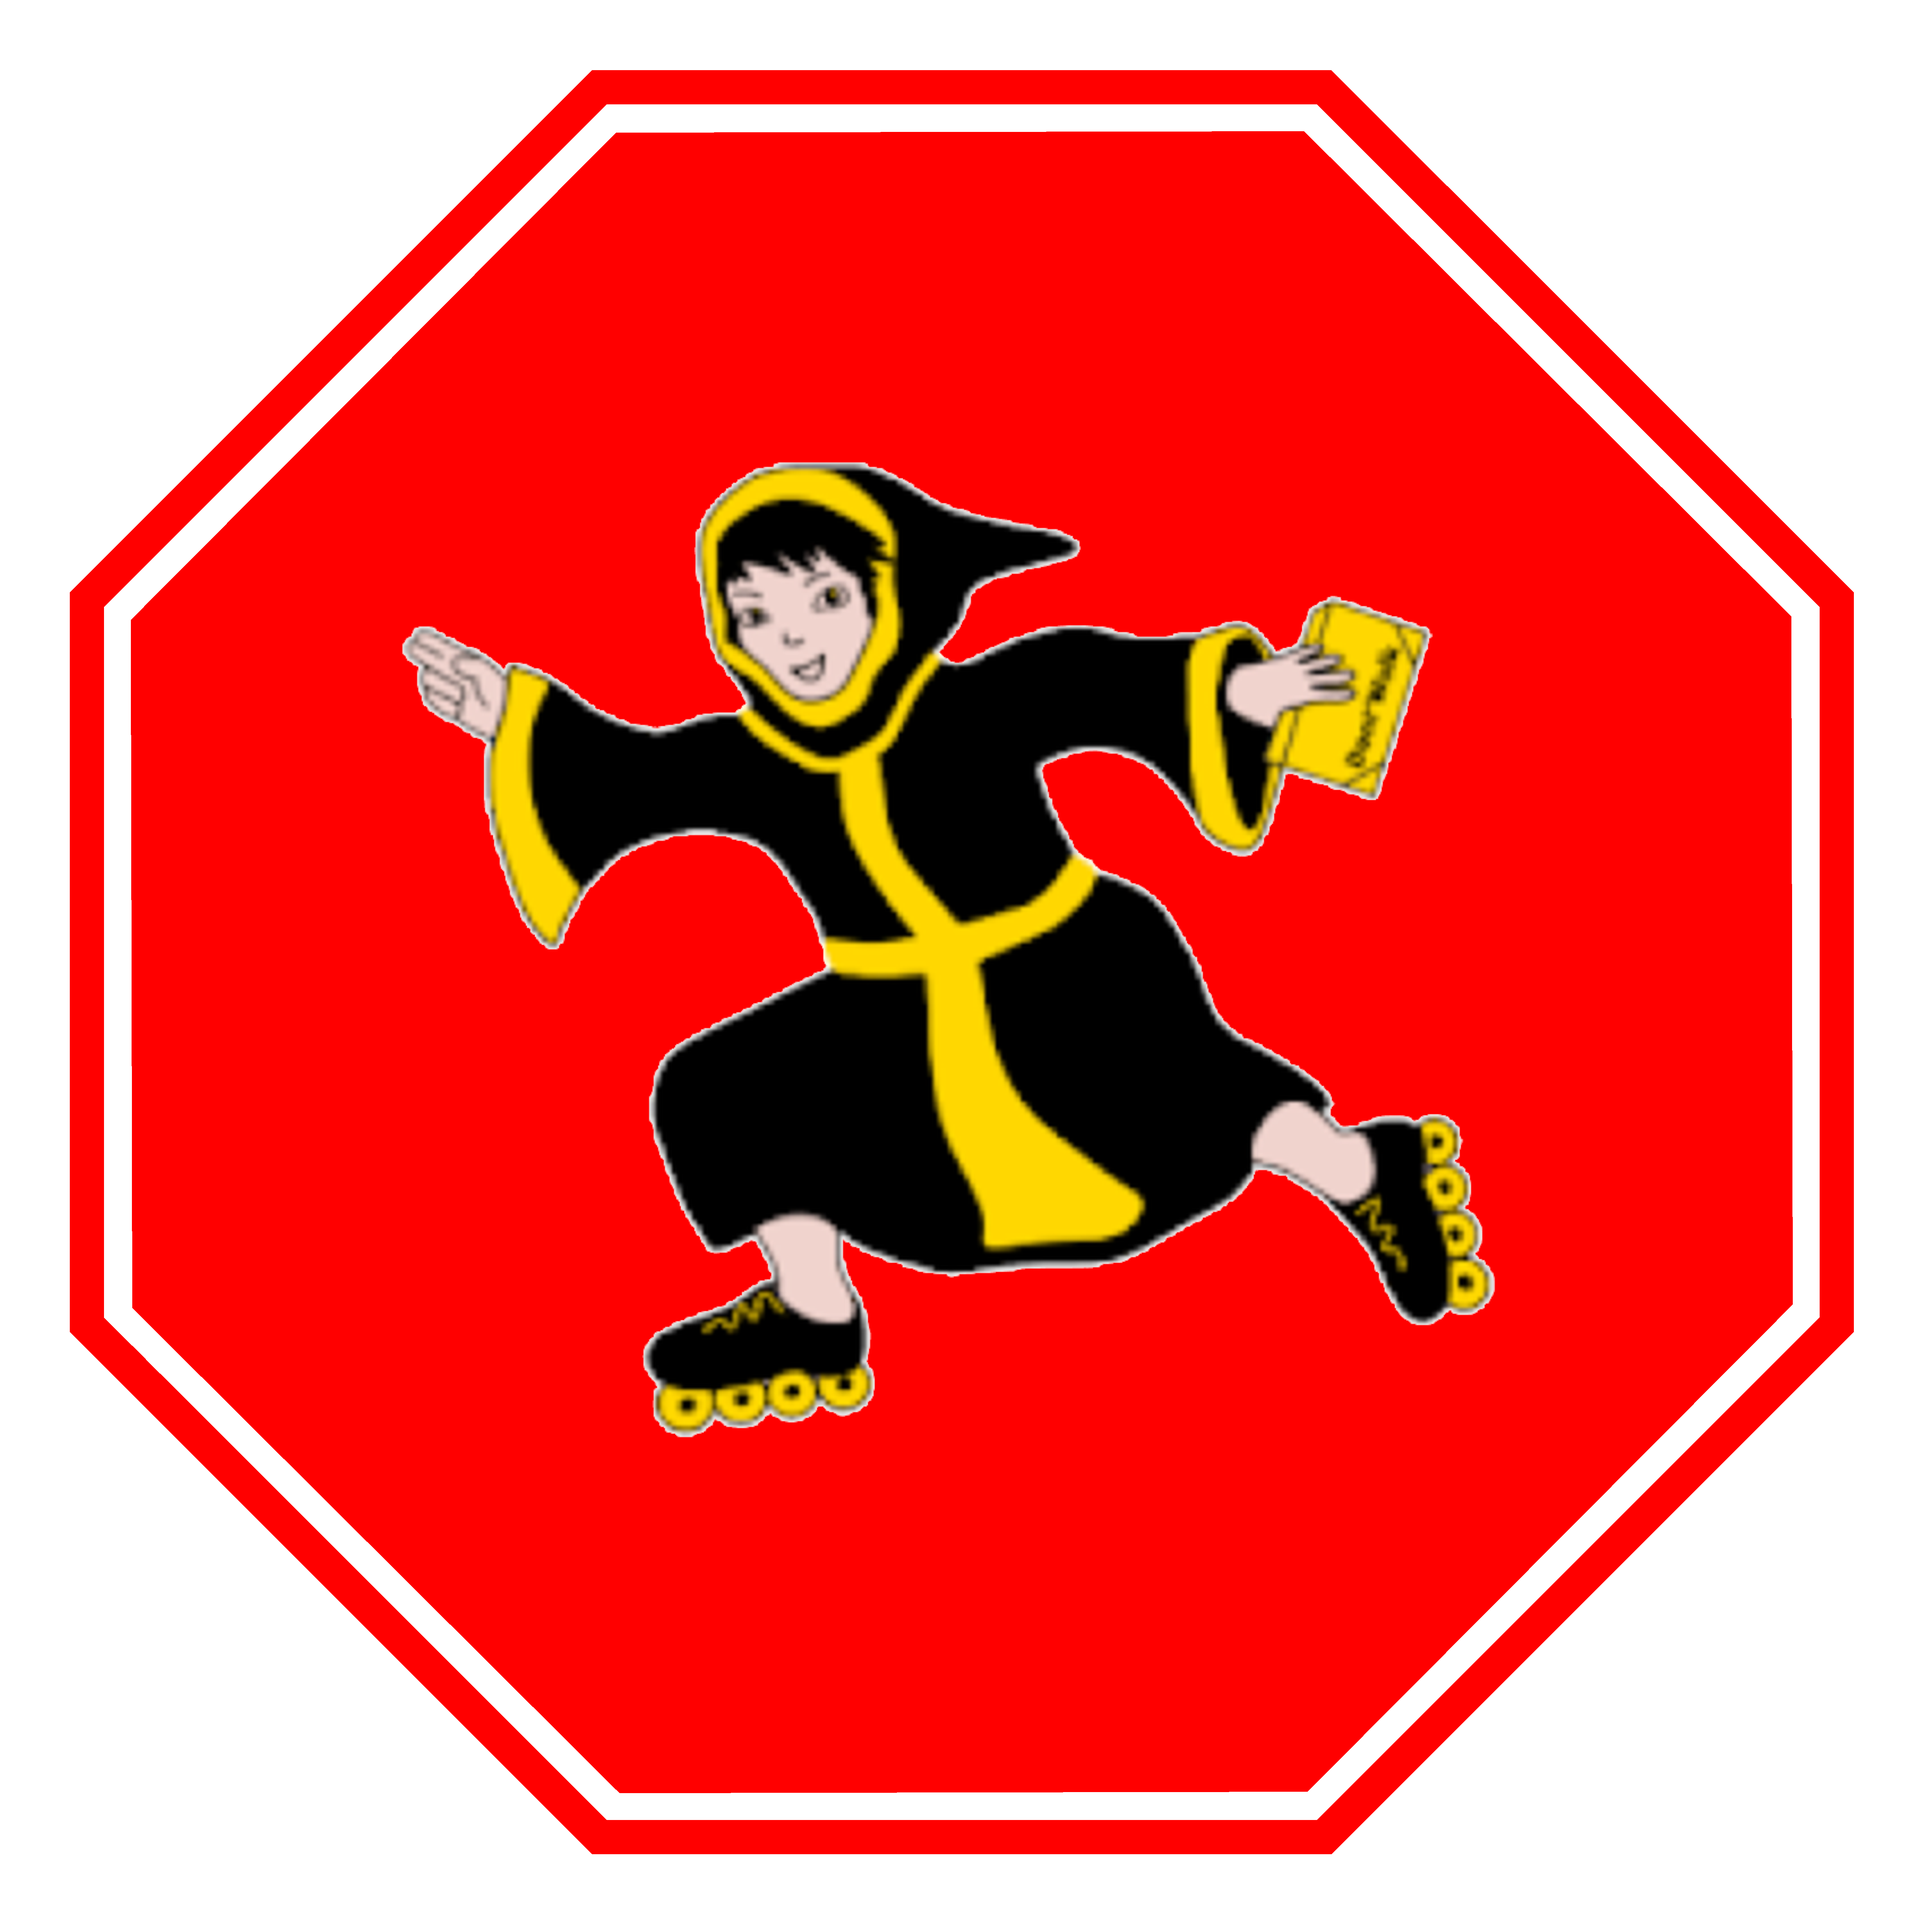
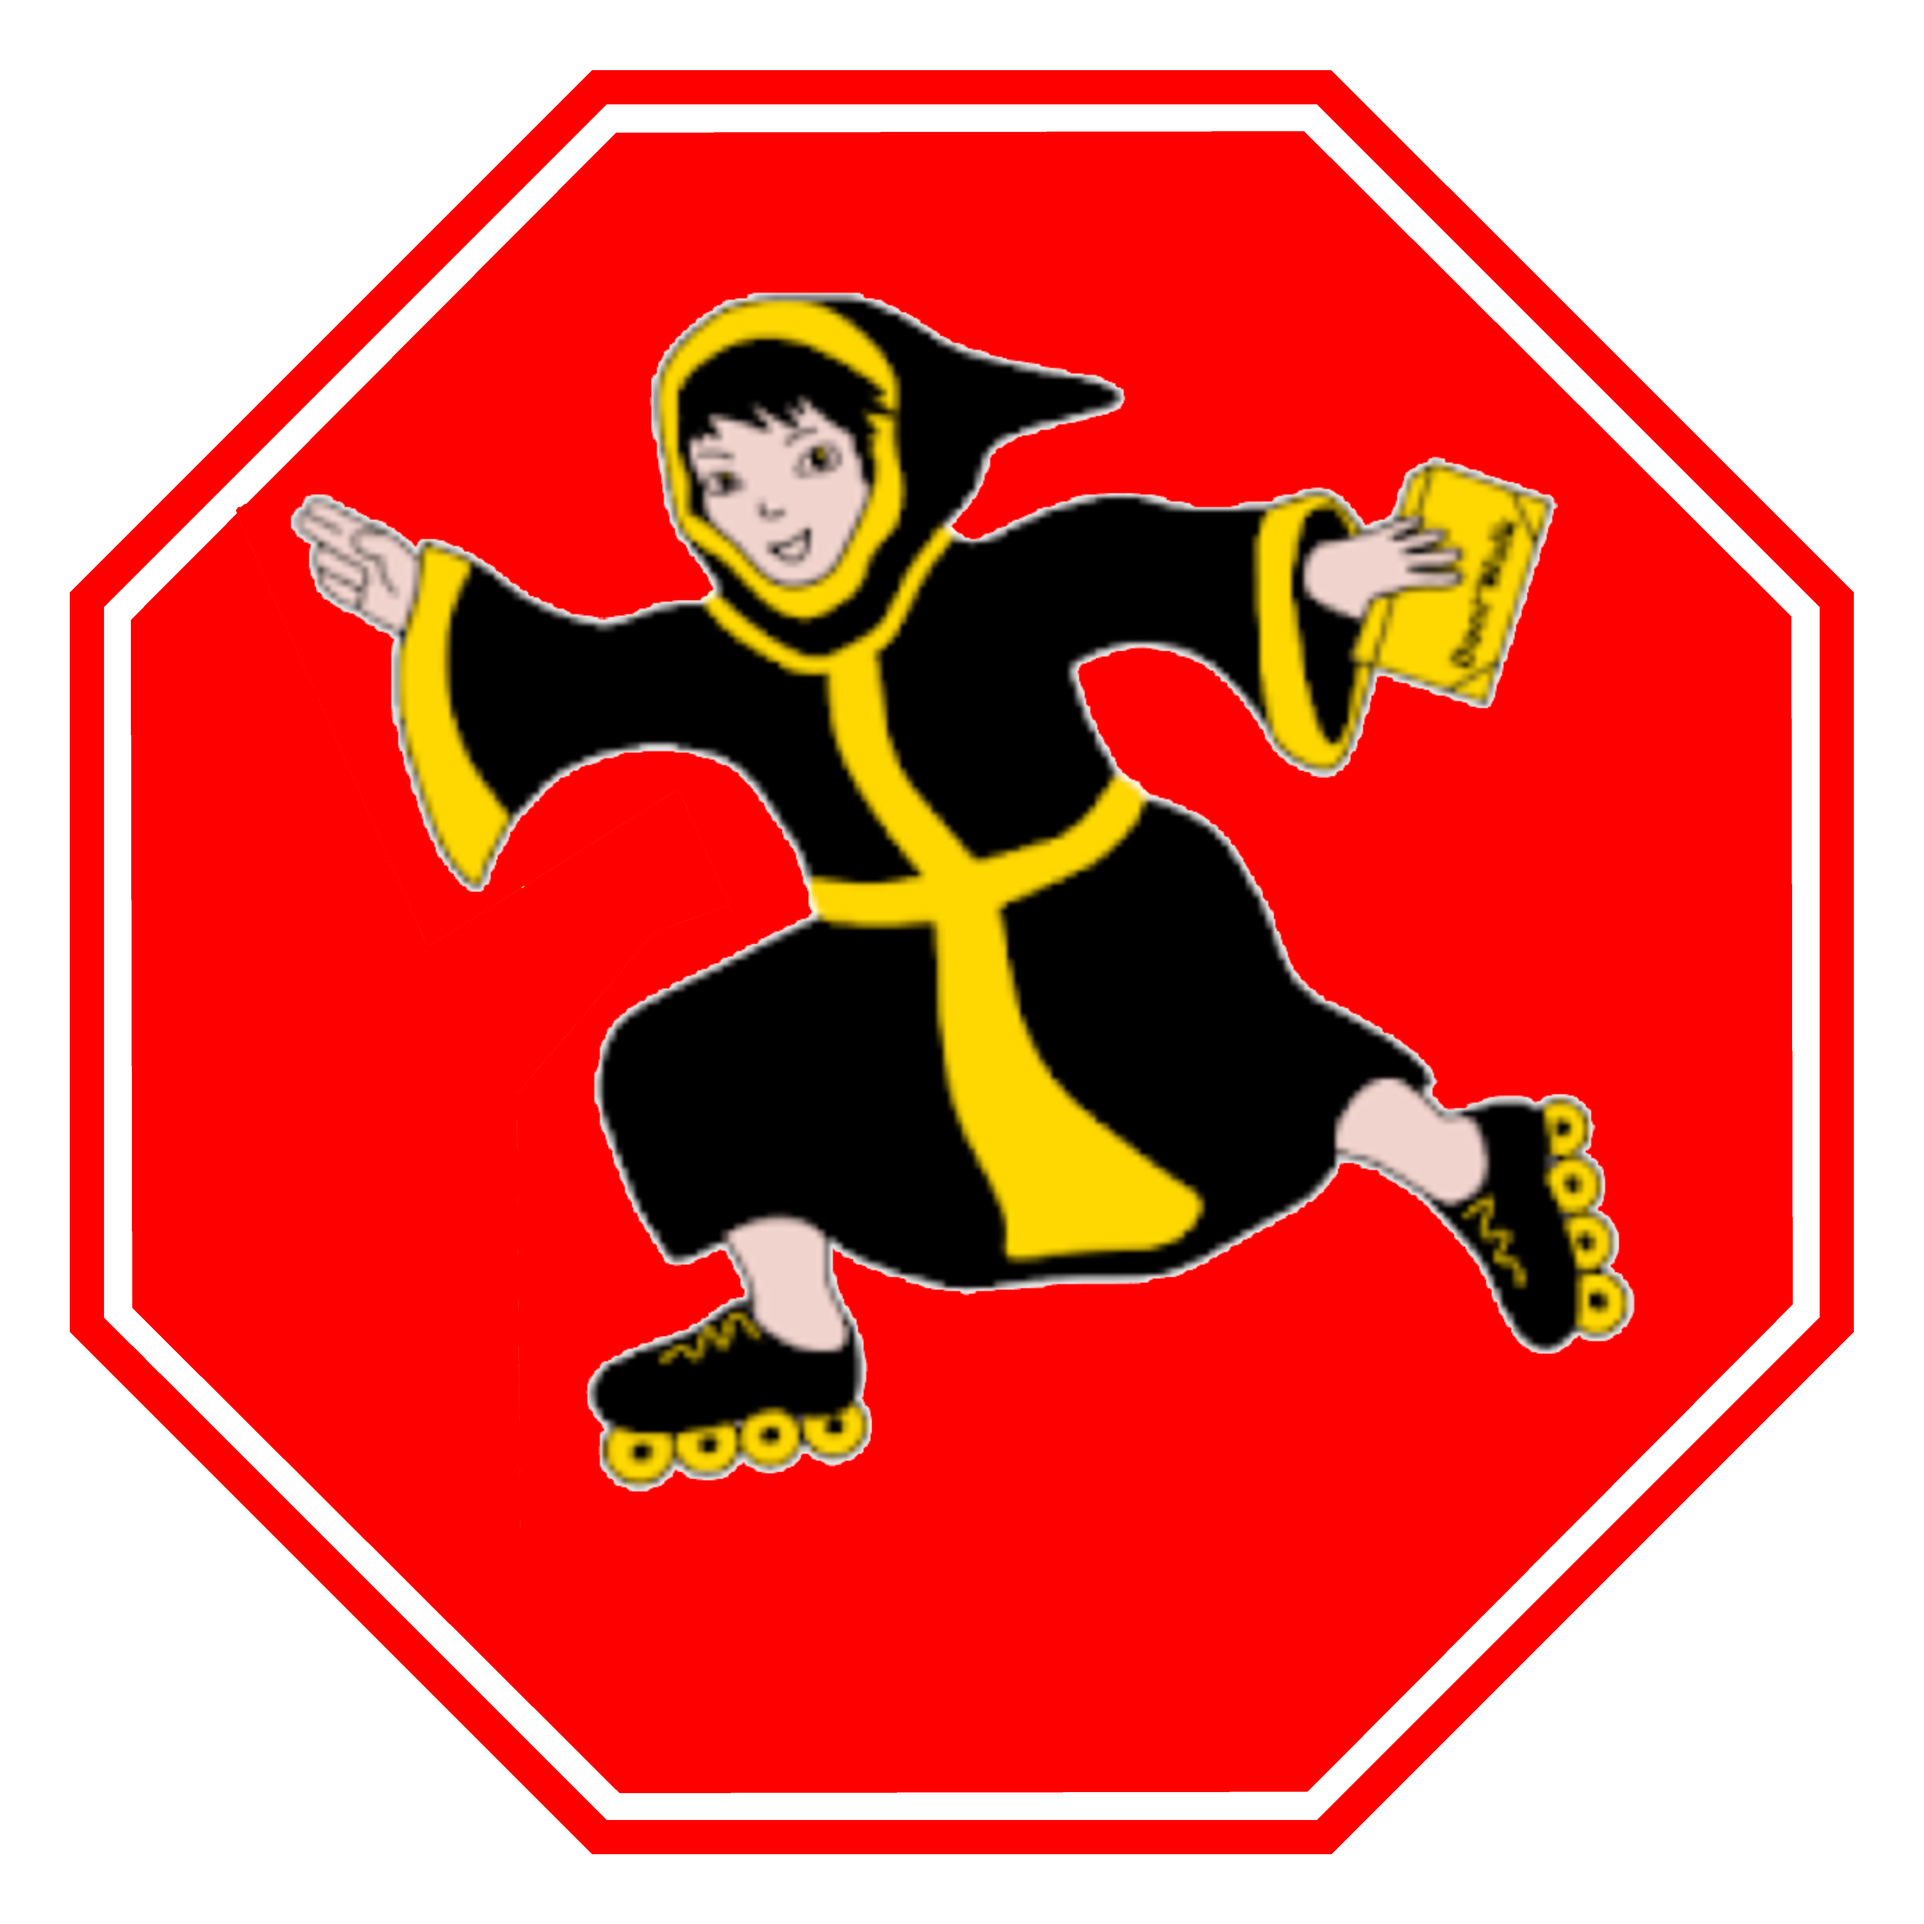
- Added -Sammelstopp- changing by serverconfig - fixed email_widget.dart - removed white background from child_stop image - moved special_point.dart outside with provider

Changed region(s): [[0.156, 0.1248, 0.8736, 0.78]]

diff --git a/lib/pages/map/widgets/special_points_layer.dart b/lib/pages/map/widgets/special_points_layer.dart
@@ -1,11 +1,13 @@
+import 'package:cached_network_image/cached_network_image.dart';
 import 'package:flutter/material.dart';
 import 'package:flutter_map/flutter_map.dart';
 import 'package:flutter_map_marker_popup/flutter_map_marker_popup.dart';
 import 'package:flutter_riverpod/flutter_riverpod.dart';
 
+import '../../../app_settings/app_configuration_helper.dart';
 import '../../../generated/l10n.dart';
-import '../../../helpers/location_bearing_distance.dart';
 import '../../../models/bn_map_marker.dart';
+import '../../../models/special_point.dart';
 import '../../../providers/active_event_route_provider.dart';
 import '../../../providers/map/icon_size_provider.dart';
 import 'map_marker_popup.dart';
@@ -56,13 +58,17 @@ class _SpecialPointsLayerState extends ConsumerState<SpecialPointsLayer> {
                 buildContext: context,
                 headerText: Localize.of(context).collectionStop,
                 color: Colors.lightBlue,
-                point: sp.latLng,
+                point: sp.latLon,
                 width: iconSize * 0.9,
                 height: iconSize * 0.9,
                 child: Builder(
-                  builder: (context) => Image(
-                    image: AssetImage(
-                      sp.imageName,
+                  builder: (context) => CachedNetworkImage(
+                    imageUrl: sp.imageUrl,
+                    placeholder: (context, url) => Image.asset(
+                      specialPointImagePlaceHolder,
+                    ),
+                    errorWidget: (context, url, error) => Image.asset(
+                      specialPointImagePlaceHolder,
                     ),
                   ),
                 ),

diff --git a/lib/providers/active_event_route_provider.dart b/lib/providers/active_event_route_provider.dart
@@ -2,9 +2,12 @@ import 'package:riverpod_annotation/riverpod_annotation.dart';
 
 import '../helpers/hive_box/hive_settings_db.dart';
 import '../helpers/location_bearing_distance.dart';
+import '../helpers/logger.dart';
 import '../models/event.dart';
 import '../models/route.dart';
+import '../models/special_point.dart';
 import 'active_event_provider.dart';
+import 'images_and_links/special_points_image_and_link_provider.dart';
 import 'realtime_data_provider.dart';
 
 part 'active_event_route_provider.g.dart';
@@ -57,14 +60,15 @@ class SpecialPoints extends _$SpecialPoints {
   @override
   Future<List<SpecialPoint>> build() async {
     List<SpecialPoint> points = [];
-    points.add(SpecialPoint(const LatLng(48.15964, 11.52988),
-        'assets/images/skatemunich_child_stop.png'));
-    points.add(SpecialPoint(const LatLng(48.11015, 11.51962),
-        'assets/images/skatemunich_child_stop.png'));
-    points.add(SpecialPoint(const LatLng(48.12308, 11.56730),
-        'assets/images/skatemunich_child_stop.png'));
-    points.add(SpecialPoint(const LatLng(48.15726, 11.58417),
-        'assets/images/skatemunich_child_stop.png'));
+    var pointsJson = ref.read(specialPointsImageAndLinkProvider).text;
+    if (pointsJson != null) {
+      try {
+        var spPoints = SpecialPointsMapper.fromJson(pointsJson);
+        points = spPoints.specialPoints;
+      } catch (e) {
+        BnLog.error(text: 'SpecialPoints parse error $e', className: toString());
+      }
+    }
     return points;
   }
 }

diff --git a/lib/providers/images_and_links/special_points_image_and_link_provider.dart b/lib/providers/images_and_links/special_points_image_and_link_provider.dart
@@ -1,0 +1,37 @@
+import 'package:riverpod_annotation/riverpod_annotation.dart';
+
+import '../../helpers/hive_box/hive_settings_db.dart';
+import '../../models/image_and_link.dart';
+
+part 'special_points_image_and_link_provider.g.dart';
+
+String specialPointsImageAndLinkKey = 'specialPointsIalKey';
+ImageAndLink _defaultSpecialPoints = ImageAndLink(
+    '',
+    '',
+    '{"spp":['
+        '{"lat":48.098390,"lon":11.508354,"url":"https://bladenight.app/images/skatemunich_child_stop.png"},' //Süd Höglwörther
+        '{"lat":48.12308,"lon":11.56730,"url":"https://bladenight.app/images/skatemunich_child_stop.png"},' //Ost Wittelsbacher
+        '{"lat":48.15726,"lon":11.58417,"url":"https://bladenight.app/images/skatemunich_child_stop.png"}' //Nord Leopold
+        ']'
+        '}',
+    'specialPoints');
+
+
+@riverpod
+class SpecialPointsImageAndLink extends _$SpecialPointsImageAndLink {
+  @override
+  ImageAndLink build() {
+    HiveSettingsDB.settingsHiveBox
+        .watch(key: specialPointsImageAndLinkKey)
+        .listen((event) => state = event.value);
+    return HiveSettingsDB.settingsHiveBox
+        .get(specialPointsImageAndLinkKey, defaultValue: _defaultSpecialPoints);
+  }
+
+  void setValue(ImageAndLink imageAndLink) {
+    HiveSettingsDB.settingsHiveBox
+        .put(specialPointsImageAndLinkKey, imageAndLink);
+    //state = imageAndLink;
+  }
+}

diff --git a/lib/main.init.dart b/lib/main.init.dart
@@ -26,8 +26,9 @@ import 'models/route.dart' as p19;
 import 'models/route_names.dart' as p20;
 import 'models/shake_hand_result.dart' as p21;
 import 'models/shake_hands.dart' as p22;
-import 'models/user_trackpoint.dart' as p23;
-import 'models/watch_event.dart' as p24;
+import 'models/special_point.dart' as p23;
+import 'models/user_trackpoint.dart' as p24;
+import 'models/watch_event.dart' as p25;
 
 void initializeMappers() {
   p0.EventMapper.ensureInitialized();
@@ -57,8 +58,10 @@ void initializeMappers() {
   p20.RouteNamesMapper.ensureInitialized();
   p21.ShakeHandResultMapper.ensureInitialized();
   p22.ShakeHandMapper.ensureInitialized();
-  p23.UserTrackPointMapper.ensureInitialized();
-  p23.UserTrackPointsMapper.ensureInitialized();
-  p24.WatchEventMapper.ensureInitialized();
-  p24.WatchEventsMapper.ensureInitialized();
+  p23.SpecialPointMapper.ensureInitialized();
+  p23.SpecialPointsMapper.ensureInitialized();
+  p24.UserTrackPointMapper.ensureInitialized();
+  p24.UserTrackPointsMapper.ensureInitialized();
+  p25.WatchEventMapper.ensureInitialized();
+  p25.WatchEventsMapper.ensureInitialized();
 }

diff --git a/lib/providers/get_images_and_links_provider.dart b/lib/providers/get_images_and_links_provider.dart
@@ -12,6 +12,7 @@ import '../models/images_and_links.dart';
 import 'images_and_links/bladeguard_link_image_and_link_provider.dart';
 import 'images_and_links/main_sponsor_image_and_link_provider.dart';
 import 'images_and_links/second_sponsor_image_and_link_provider.dart';
+import 'images_and_links/special_points_image_and_link_provider.dart';
 import 'images_and_links/startpoint_image_and_link_provider.dart';
 import 'network_connection_provider.dart';
 
@@ -46,6 +47,9 @@ final updateImagesAndLinksProvider = FutureProvider<bool>((ref) async {
         break;
       case 'bladeguardLink':
         ref.read(bladeguardImageAndLinkProvider.notifier).setValue(ial);
+        break;
+      case 'specialPoints':
+        ref.read(specialPointsImageAndLinkProvider.notifier).setValue(ial);
         break;
       case 'restApiLink':
         ServerConfigDb.setRestApiLinkConfig(ial);

diff --git a/lib/models/special_point.dart b/lib/models/special_point.dart
@@ -1,0 +1,28 @@
+import 'package:dart_mappable/dart_mappable.dart';
+import 'package:latlong2/latlong.dart';
+
+part 'special_point.mapper.dart';
+
+@MappableClass()
+class SpecialPoint with SpecialPointMappable
+{
+  @MappableField(key: 'lat')
+  final double lat;
+  @MappableField(key: 'lon')
+  final double lon;
+  @MappableField(key: 'url')
+  final String imageUrl;
+  late LatLng latLon;
+
+  SpecialPoint(this.lat, this.lon, this.imageUrl) {
+    latLon = LatLng(lat, lon);
+  }
+}
+
+
+@MappableClass()
+class SpecialPoints with SpecialPointsMappable {
+  @MappableField(key: 'spp')
+  final List<SpecialPoint> specialPoints;
+  SpecialPoints(this.specialPoints);
+}

diff --git a/lib/app_settings/app_configuration_helper.dart b/lib/app_settings/app_configuration_helper.dart
@@ -26,6 +26,7 @@ const String mainSponsorPlaceholder = kIsWeb
     ? 'assets/images/Giesinger-Bladenight-Logo.jpg'
     : 'assets/images/bladenight_logo.png';
 const String secondLogoPlaceholder = 'assets/images/skatemunich.png';
+const String specialPointImagePlaceHolder = 'assets/images/skatemunich_child_stop.png';
 
 //globals
 String bladeguardRegisterLink =

diff --git a/lib/pages/widgets/email_widget.dart b/lib/pages/widgets/email_widget.dart
@@ -40,9 +40,6 @@ class _EmailTextFieldState extends ConsumerState<EmailTextField> {
             HiveSettingsDB.setBladeguardEmail(_emailTextController.text);
             //setState(() {});
           },
-          onFieldSubmitted: (value) {
-            _emailTextController.text;
-          },
         ),
       ],
     );

diff --git a/lib/providers/images_and_links/bladeguard_link_image_and_link_provider.dart b/lib/providers/images_and_links/bladeguard_link_image_and_link_provider.dart
@@ -25,7 +25,7 @@ class BladeguardImageAndLink extends _$BladeguardImageAndLink {
 
   void setValue(ImageAndLink imageAndLink) {
     HiveSettingsDB.settingsHiveBox
-        .put(bladeguardImageAndLinkKey, (imageAndLink));
+        .put(bladeguardImageAndLinkKey, imageAndLink);
     //state = imageAndLink;
   }
 }

diff --git a/lib/helpers/location_bearing_distance.dart b/lib/helpers/location_bearing_distance.dart
@@ -147,9 +147,4 @@ class HeadingPoint {
   final double segmentLength;
 }
 
-class SpecialPoint {
-  SpecialPoint(this.latLng,this.imageName);
-  final LatLng latLng;
-  final String imageName;
-}
 
